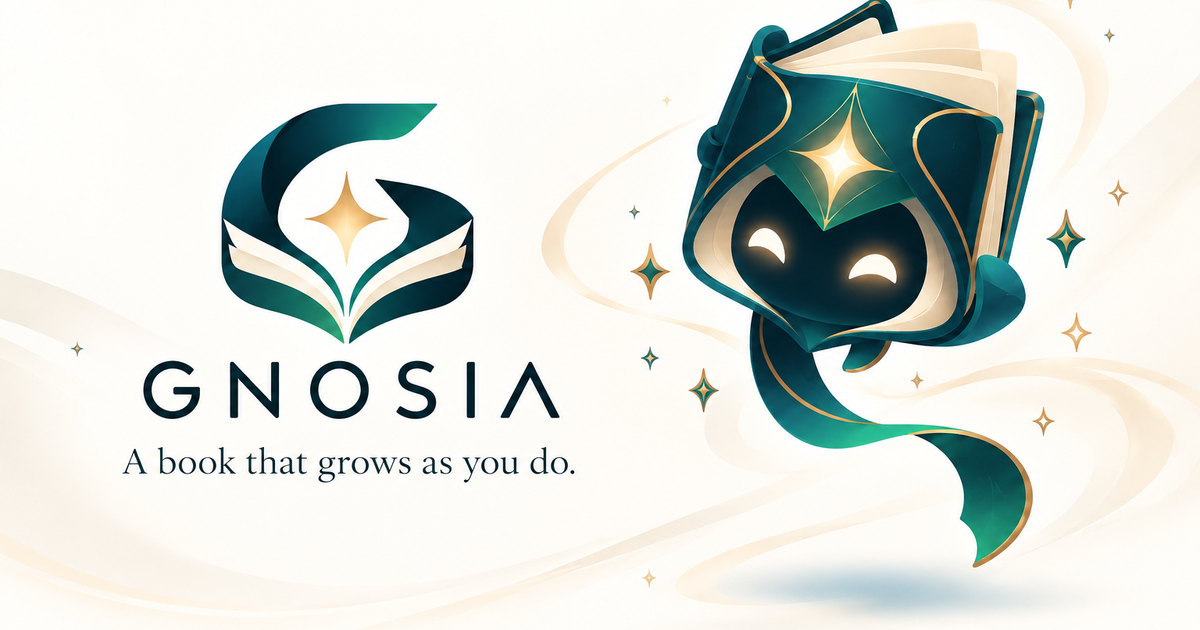
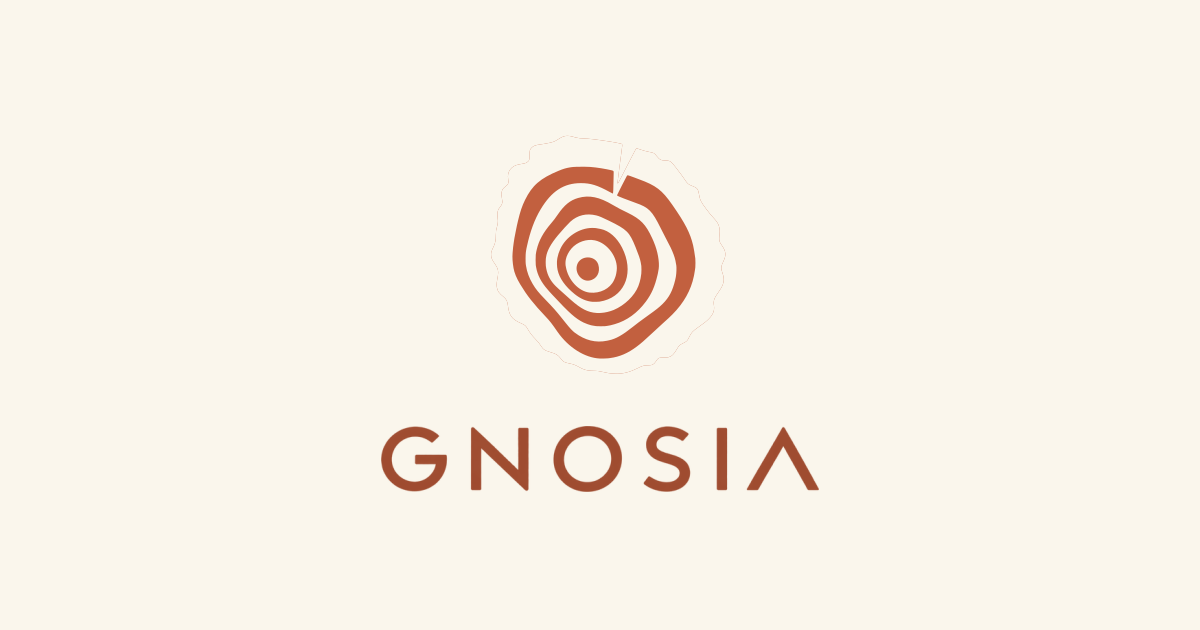
Brand: replace the social preview with the 8-5 lockup (#665)

diff --git a/apps/web/src/app/layout.tsx b/apps/web/src/app/layout.tsx
@@ -39,7 +39,7 @@ export const metadata: Metadata = {
         url: "/opengraph-image.png",
         width: 1200,
         height: 630,
-        alt: "The Gnosia wordmark and the line A book that grows as you do, beside the Gnosia mascot: a floating teal book with a glowing four-point star on its cover, two bright eyes under the hood of its pages, and a long ribbon tail",
+        alt: "Gnosia: a terracotta tree-ring mark above the wordmark on cream",
       },
     ],
   },

diff --git a/docs/design/BRAND.md b/docs/design/BRAND.md
@@ -125,11 +125,14 @@ reduction of it, and where the two disagree the art wins.
 | [apps/web/src/app/apple-icon.png](../../apps/web/src/app/apple-icon.png) (180) | The new mark on an opaque square, supplied as final art; opaque, because iOS fills a transparent home-screen icon with black, and square, because iOS rounds the corners itself | Home-screen icon |
 | [apps/desktop/Resources/AppIcon.png](../../apps/desktop/Resources/AppIcon.png) (1024) | The new mark, supplied as final art; `scripts/bundle-app.sh` renders the `.icns` from it | macOS app icon |
 | [apps/web/public/brand/mascot/](../../apps/web/public/brand/mascot/) `{neutral,happy,reading,curious,excited,sleepy}.png` | Cut from the renders in `docs/design/brand/mascot/`: trimmed to the art plus 8px and scaled to 900px on the longest side (620 to 880px wide) | `GnosiaMascot` |
-| [apps/web/public/opengraph-image.png](../../apps/web/public/opengraph-image.png) (1200 by 630) | Made from `hero-lockup.png` | The social card |
+| [apps/web/public/opengraph-image.png](../../apps/web/public/opengraph-image.png) (1200 by 630) | Interim 8-5 mark and terracotta wordmark on cream, from `kit/social-card.svg` | The social card; the owner's hand-cut art replaces it later |
 | [apps/web/public/banner.png](../../apps/web/public/banner.png) | Made from `world-staircase.png` | A wide banner, for the repository and campaign use |
 
-The two icon files, the social card and the banner are cut by hand from
-the art; do not regenerate them from code. [kit/render.mjs](kit/render.mjs)
+The icon files and historical banner are supplied or cut by hand from
+the art; do not regenerate them from code. Issue #662 authorizes the interim
+social card in `kit/social-card.svg`, composed from the exact mark paths and
+letter alpha mask. It will give way to the owner's hand-cut art.
+[kit/render.mjs](kit/render.mjs)
 (SVG or HTML to PNG, fonts loaded, optional transparent ground) and
 [kit/gen-icons.mjs](kit/gen-icons.mjs) (the flat mark on a tile, read from
 `GnosiaMark.ts`) exist for previews and for any size the art does not cover.
